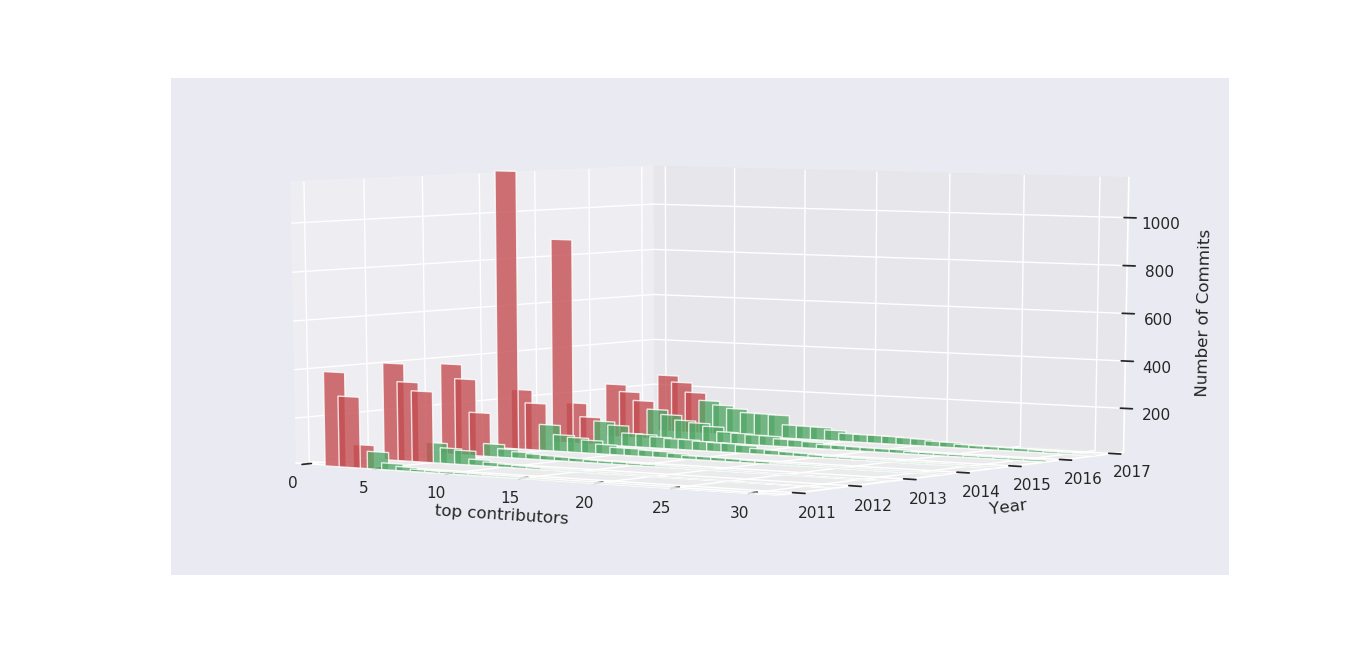
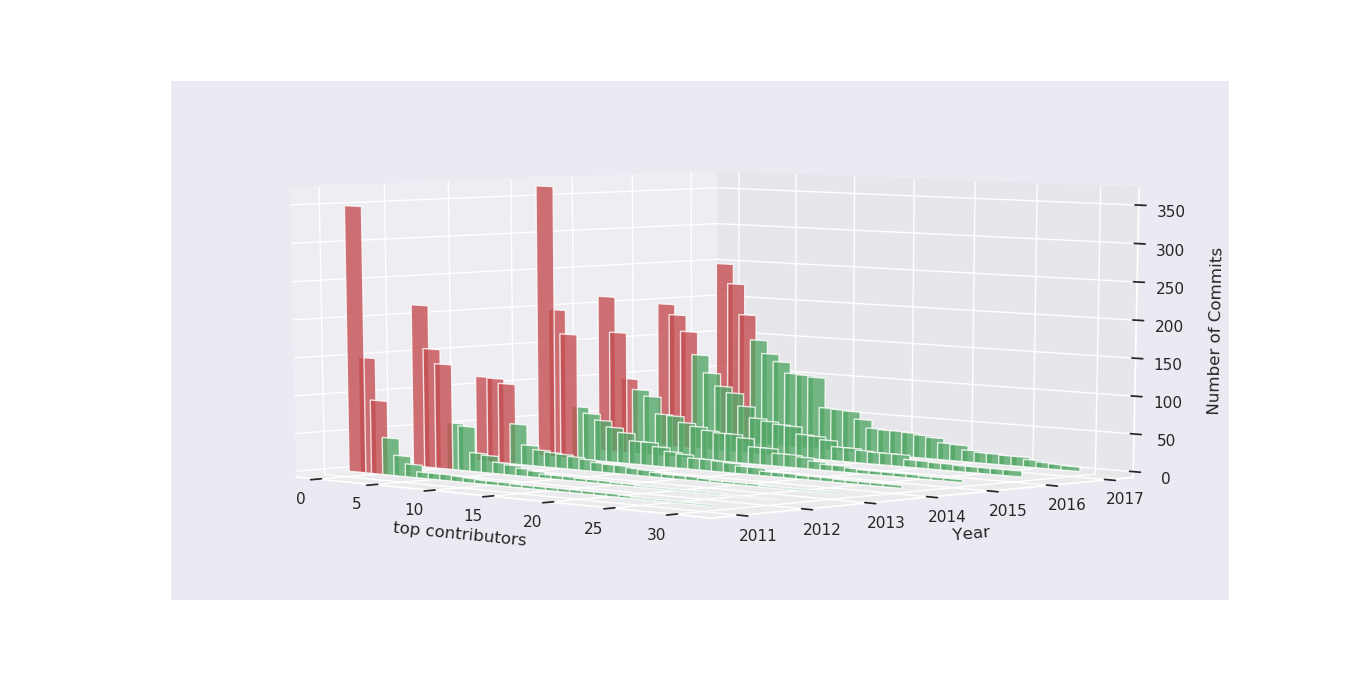
gephi + merge detection

Changed region(s): [[0.2152, 0.2477, 0.8609, 0.805], [0.8302, 0.3096, 0.8917, 0.6811]]

diff --git a/top-contributors/top_contributors.py b/top-contributors/top_contributors.py
@@ -26,11 +26,9 @@ def all_years():
     df=pd.read_csv(path+'bitcoin-bitcoin-commits.csv')
     df['date'] = pd.to_datetime(df['date'], errors='coerce')
     print(df.shape)
-    df=df[df['body'].str.contains('Merge #')==False]
+    df=df[df['body'].str.contains('Merge')==False]
     print(df.shape)
 
-
-    df=pd.read_csv(path+'bitcoin-bitcoin-commits.csv')
     authors=df.groupby('author')
     y=authors.size().sort_values(ascending=False).values.tolist()[:100]
 
@@ -48,7 +46,7 @@ def all_years():
 def by_year():
     df=pd.read_csv(path+'bitcoin-bitcoin-commits.csv')
     df['date'] = pd.to_datetime(df['date'], errors='coerce')
-    df=df[df['body'].str.contains('Merge #')==False]
+    df=df[df['body'].str.contains('Merge')==False]
 
 
     dfs=[]
@@ -84,5 +82,5 @@ def by_year():
 
     plt.show()
 
-
+all_years()
 by_year()

diff --git a/top-correlation/plot.py b/top-correlation/plot.py
@@ -2,6 +2,9 @@ import plotly.plotly as py
 import plotly.graph_objs as go
 import plotly.tools as tools
 
+
+tools.set_credentials_file(username='ghost-42', api_key='1oIJ0CFL9cP2XfIqvlJ6')
+
 import pandas as pd 
 
 df = pd.read_csv("./contribuition_stats.csv")
@@ -46,8 +49,7 @@ else:
     print("[1,'red ']: member")
     print("[0,'blue']: non-member")
 
-# Conjunto de dados sem slace
-'''
+# Conjunto de dados sem slice
 data = [
     go.Parcoords(
         line = dict(color = df['status'], colorscale = [[0,'blue'],[1,'red']]),
@@ -70,8 +72,8 @@ data = [
         ]
     )
 ]
-'''
 
+'''
 # Intervalo para o slace do conjunto de dados
 end_interval   = 20
 
@@ -97,7 +99,7 @@ data = [
         ]
     )
 ]
-
+'''
 layout = go.Layout(
     plot_bgcolor = '#E5E5E5',
     paper_bgcolor = '#E5E5E5',

diff --git a/PRICExDEV/filter.py b/PRICExDEV/filter.py
@@ -51,7 +51,7 @@ for artefact in artefats:
     df['date']=df['date'].apply(lambda x: str(x).split(' ')[0])
     
     df=df.sort_values(by='date')
-    df=df[df['body'].str.contains('Merge #')==False]
+    df=df[df['body'].str.contains('Merge')==False]
     
     df=df.groupby('date').count()
     df=df[['author']] # since is unique for one contribuition, can be used as counter
